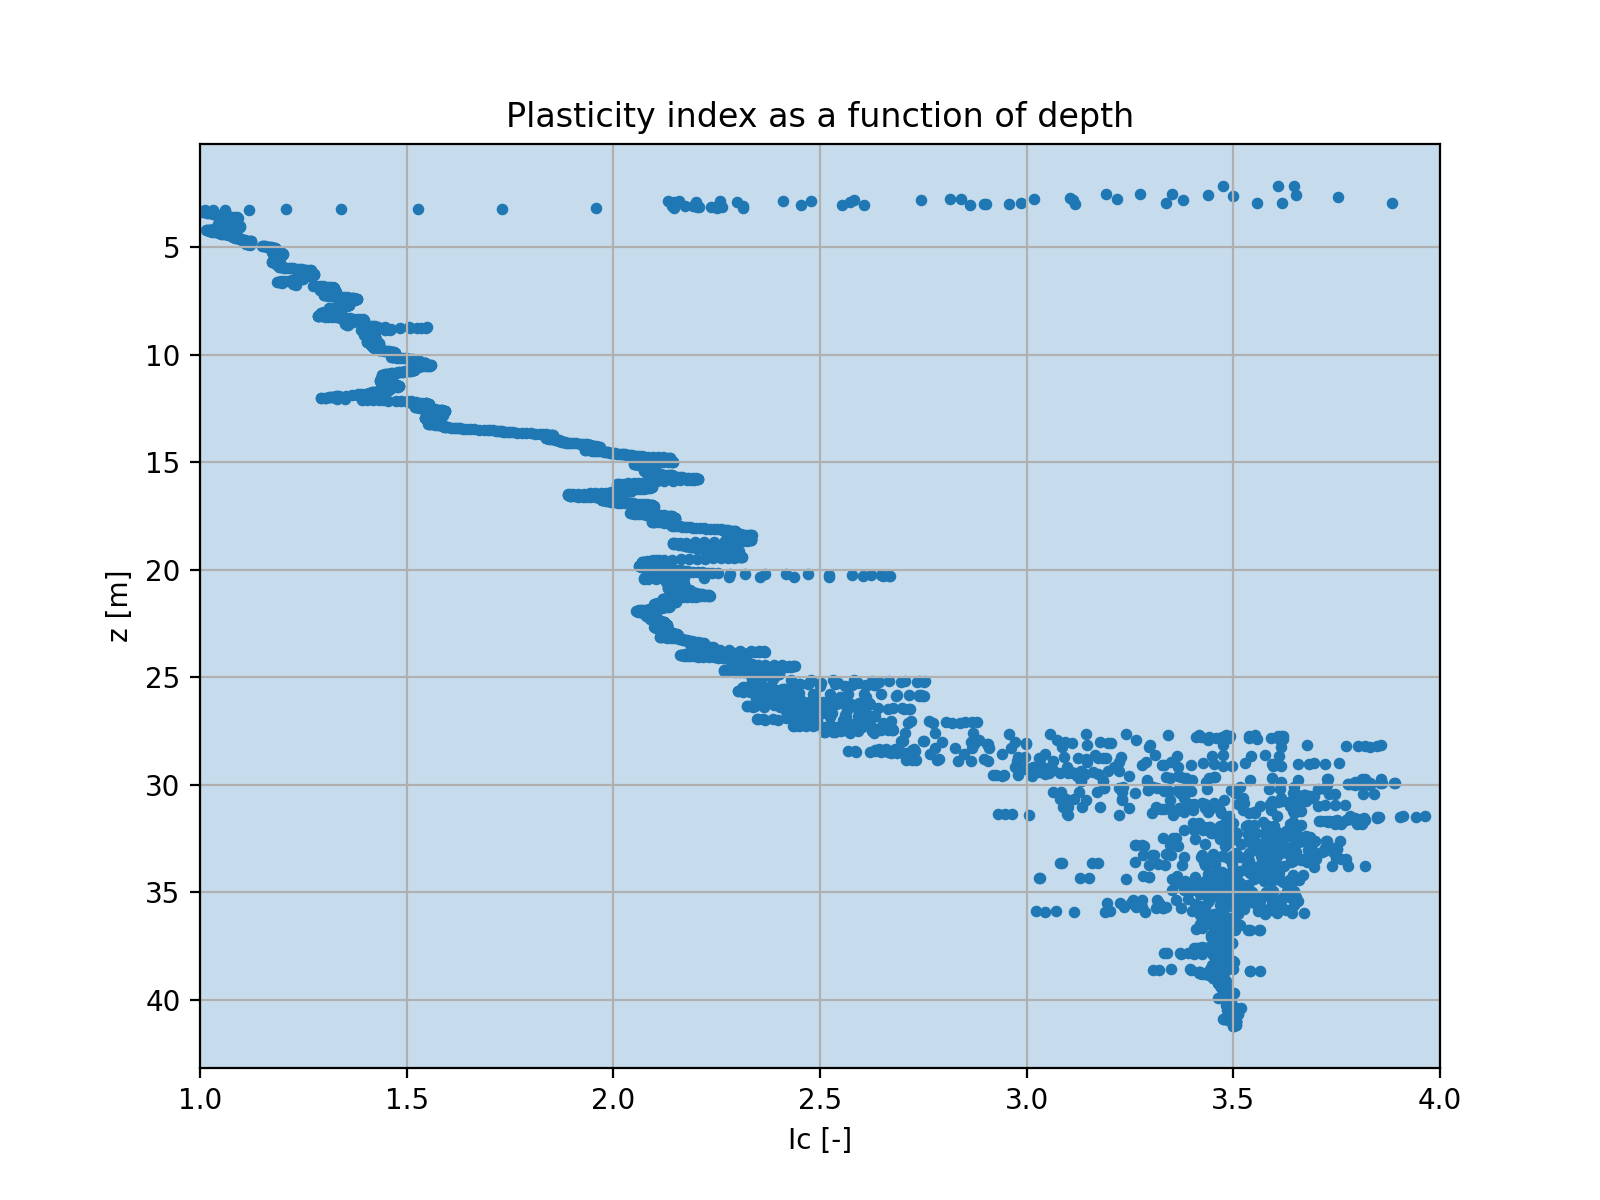
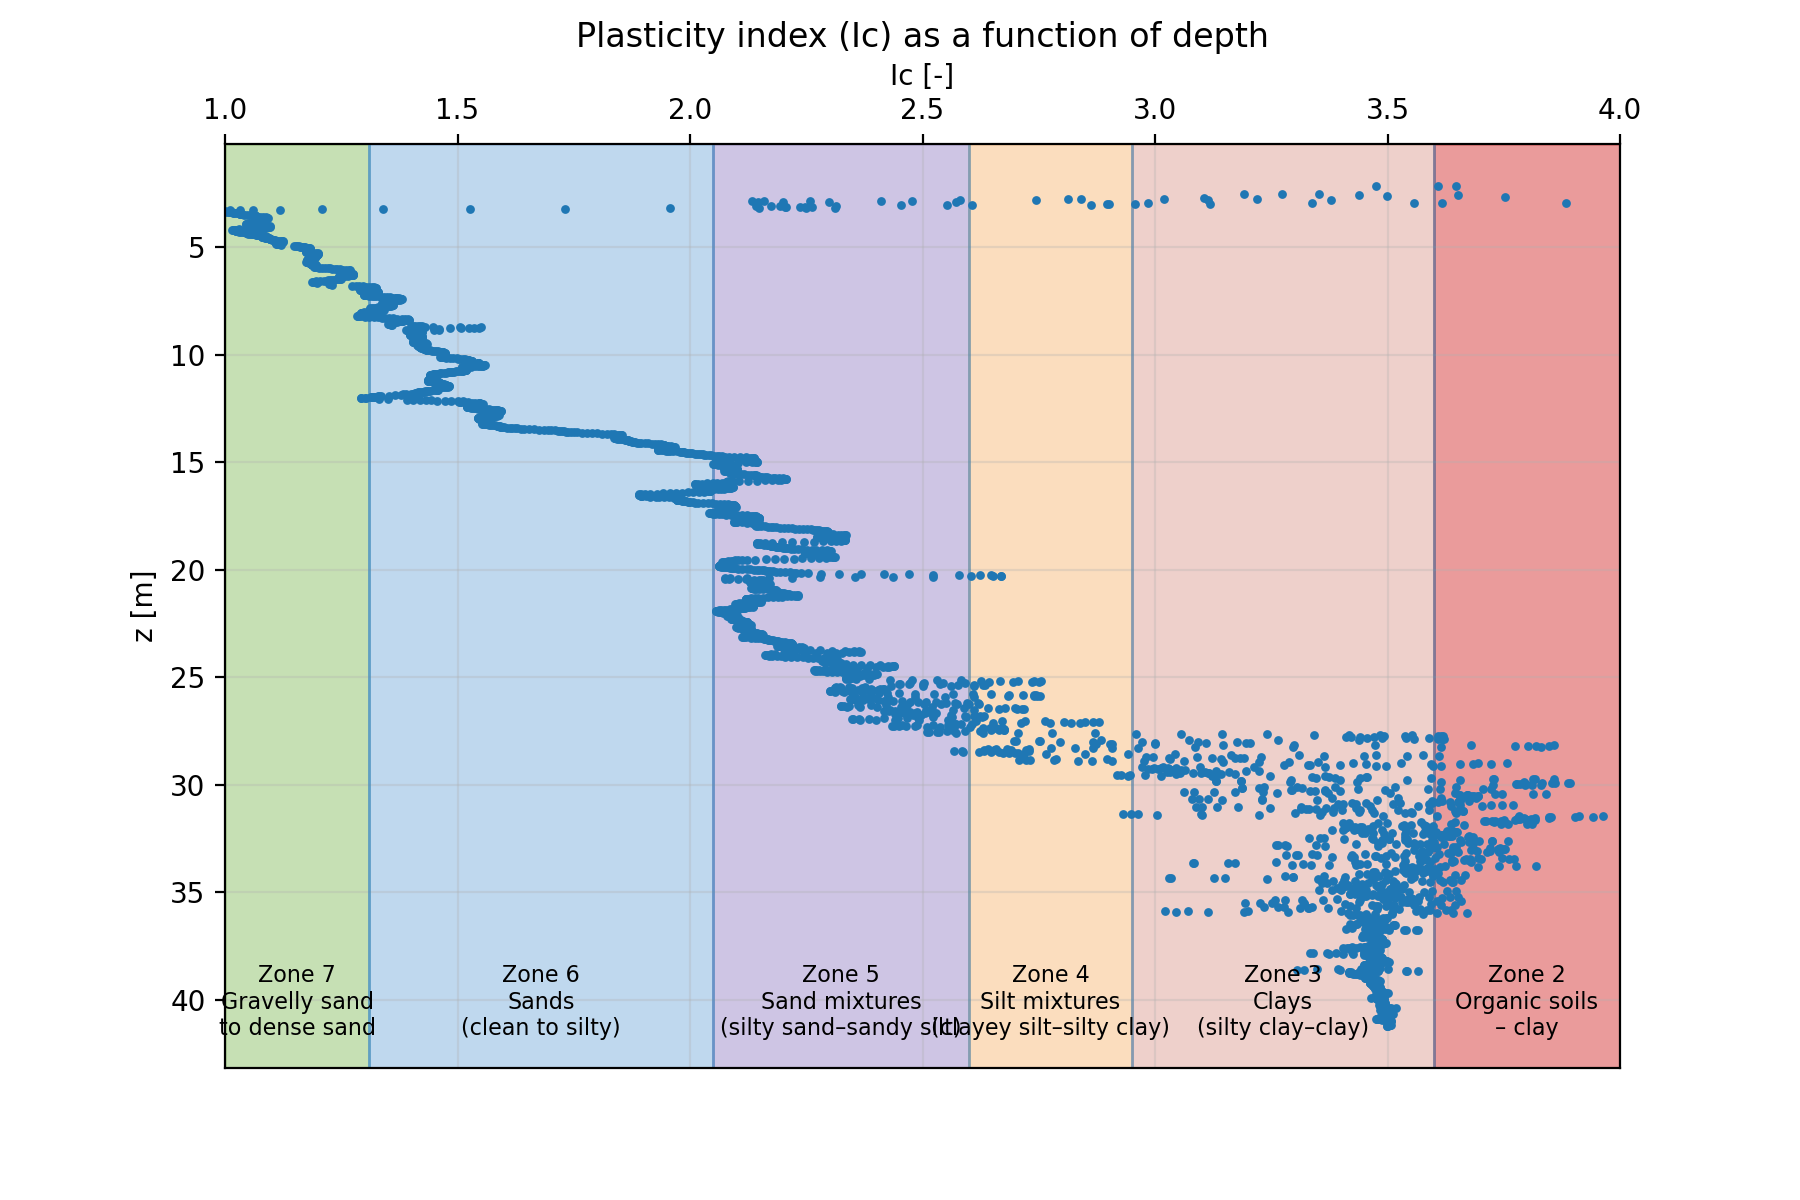
Ic calculations

diff --git a/Ic/Part_1.py b/Ic/Part_1.py
@@ -302,35 +302,73 @@ def plot_plasticity_index(out: pd.DataFrame):
     z = out["depth_m"].to_numpy()
     Ic = out["Ic"].to_numpy()
 
-    fig, ax = plt.subplots(figsize=(8, 6))
+    fig, ax = plt.subplots(figsize=(9, 6))
 
-    # Colored zones (like your figure)
-    # Boundaries: 1.31, 2.05, 2.60, 2.95, 3.60
+    # --- Zone bands and labels (based on your table) ---
+    # Zone 7: Ic < 1.31
+    # Zone 6: 1.31–2.05
+    # Zone 5: 2.05–2.60
+    # Zone 4: 2.60–2.95
+    # Zone 3: 2.95–3.60
+    # Zone 2: > 3.60
     bands = [
-        (0.0, 1.31,  "Zone 7"),
-        (1.31, 2.05, "Zone 6"),
-        (2.05, 2.60, "Zone 5"),
-        (2.60, 2.95, "Zone 4"),
-        (2.95, 3.60, "Zone 3"),
-        (3.60, 4.50, "Zone 2"),
+        (1.00, 1.31, "Zone 7\nGravelly sand\nto dense sand"),
+        (1.31, 2.05, "Zone 6\nSands\n(clean to silty)"),
+        (2.05, 2.60, "Zone 5\nSand mixtures\n(silty sand–sandy silt)"),
+        (2.60, 2.95, "Zone 4\nSilt mixtures\n(clayey silt–silty clay)"),
+        (2.95, 3.60, "Zone 3\nClays\n(silty clay–clay)"),
+        (3.60, 4.00, "Zone 2\nOrganic soils\n– clay"),
     ]
 
-    for x0, x1, _ in bands:
-        ax.axvspan(x0, x1, alpha=0.25)
+    # Choose band colors similar to your example
+    # (Matplotlib defaults are fine too, but here we match the look)
+    band_colors = [
+        "#a8d08d",  # green
+        "#9dc3e6",  # light blue
+        "#b4a7d6",  # purple
+        "#f9cb9c",  # orange
+        "#e6b8af",  # pink
+        "#e06666",  # red
+    ]
 
-    ax.scatter(Ic, z, s=10)
+    for (x0, x1, label), c in zip(bands, band_colors):
+        ax.axvspan(x0, x1, alpha=0.65, color=c, zorder=0)
 
+        # Put zone text near the top of plot area
+        xm = 0.5 * (x0 + x1)
+        ax.text(
+            xm, 0.03, label,
+            transform=ax.get_xaxis_transform(),  # y in axes fraction
+            ha="center", va="bottom",
+            fontsize=8, color="black"
+        )
+
+    # Plot points
+    ax.scatter(Ic, z, s=10, linewidths=0, zorder=2)
+
+    # Axes style
     ax.set_xlim(1.0, 4.0)
     ax.invert_yaxis()
-    ax.grid(True)
-    add_layer_lines(ax, LAYER_LINES_M)
-
-    ax.set_xlabel("Ic [-]")
+    ax.grid(True, alpha=0.3)
     ax.set_ylabel("z [m]")
-    ax.set_title("Plasticity index as a function of depth")
+    ax.set_title("Plasticity index (Ic) as a function of depth")
+
+    # Put x-axis ticks on top like your figure
+    ax.xaxis.set_label_position("top")
+    ax.xaxis.tick_top()
+    ax.set_xlabel("Ic [-]")
+
+    # Optional: boundary lines at zone transitions
+    boundaries = [1.31, 2.05, 2.60, 2.95, 3.60]
+    for b in boundaries:
+        ax.axvline(b, linewidth=1.0, alpha=0.5)
+
+    # Optional: your horizontal layer lines (remove if you don't want them)
+    add_layer_lines(ax, LAYER_LINES_M)
 
     if SAVE_FIGS:
         fig.savefig(BASE_DIR / "03_plasticity_index_Ic.png", dpi=200)
+
     plt.tight_layout()
     plt.show()
 
